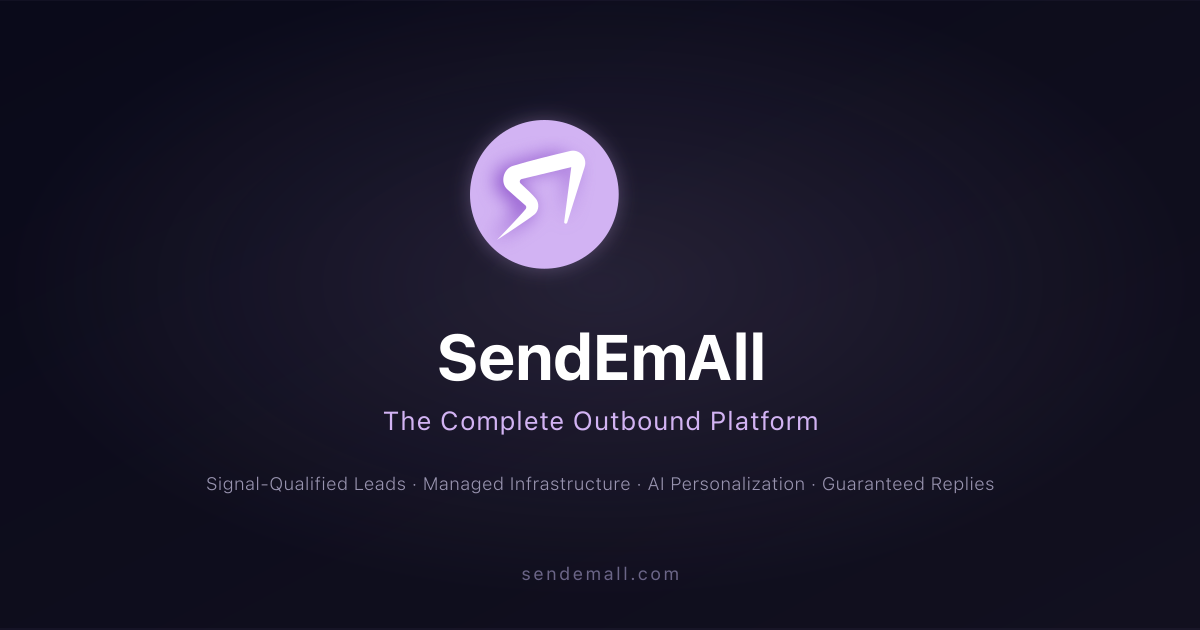
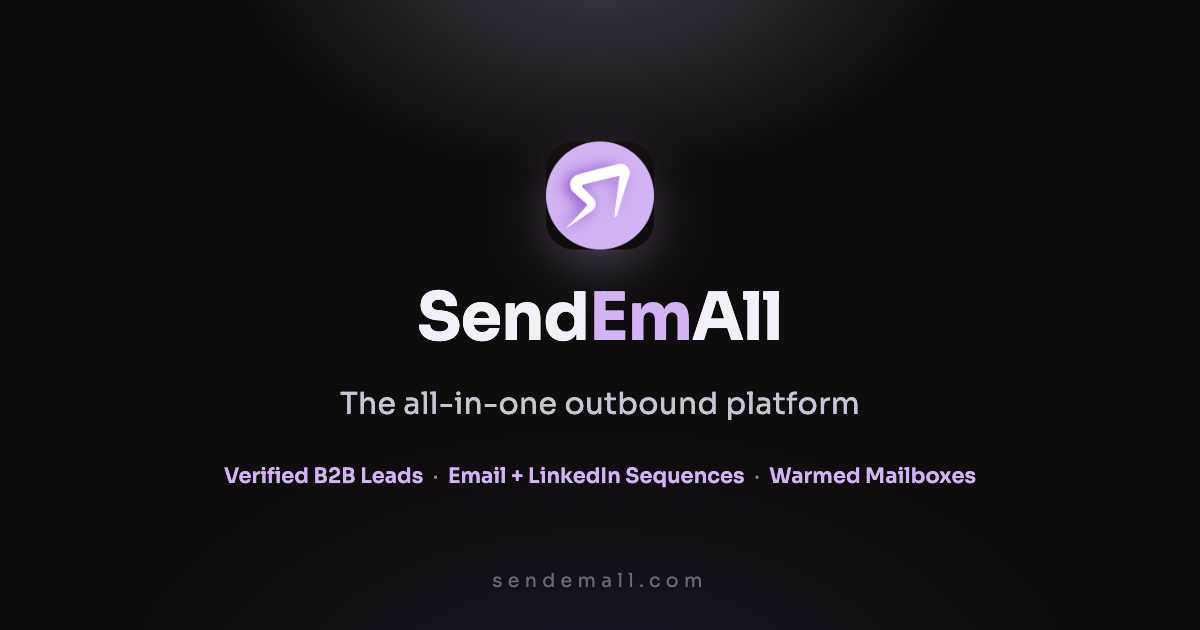
fix(launch): OG card, broken contact form, sequencer routing, hero intent router
The link-preview card every share renders still carried the RETIRED
positioning — "The Complete Outbound Platform · Signal-Qualified Leads ·
AI Personalization · Guaranteed Replies" (a claim we killed months ago).
Regenerated on-brand with the current story: all-in-one platform,
verified leads, email + LinkedIn sequences, warmed mailboxes.

The contact form failed on EVERY submission: Airtable rejects records
whose multi-select values aren't pre-seeded as field options
(INVALID_MULTIPLE_CHOICE_OPTIONS — reproduced red with the live table,
verified green). Fix: typecast: true, which also future-proofs new
options like "LinkedIn outreach".

/sequencer's CTAs sent sequencer buyers to app.sendemall.com — the leads
product — instead of sequencer.sendemall.com. Footer + fallback meta
descriptions still read email-only; now email + LinkedIn.

Hero gains an intent router under the guarantees — "Know what you need?
Leads · Sequencer · Mailboxes · LinkedIn" — so a visitor who already
knows their product reaches its door (and its own register) in one click.

diff --git a/src/pages/api/form-submit.ts b/src/pages/api/form-submit.ts
@@ -94,7 +94,12 @@ export const POST: APIRoute = async ({ request }) => {
           Authorization: `Bearer ${apiKey}`,
           "Content-Type": "application/json",
         },
-        body: JSON.stringify({ fields }),
+        // typecast lets Airtable create select options it hasn't seen before.
+        // Without it, EVERY submission fails with INVALID_MULTIPLE_CHOICE_OPTIONS
+        // when "Products Interested" contains a label the table wasn't manually
+        // seeded with — which is how the live contact form was broken (reproduced
+        // 2026-08-30, fixed by this flag; probe records verified the green path).
+        body: JSON.stringify({ fields, typecast: true }),
       },
     );
 

diff --git a/src/content/homepage/english/-index.md b/src/content/homepage/english/-index.md
@@ -1,5 +1,5 @@
 ---
-title: "SendEmAll | The Complete Outbound Platform"
+title: "SendEmAll | The All-in-One Outbound Platform"
 
 faqSection:
   showCategories: false
